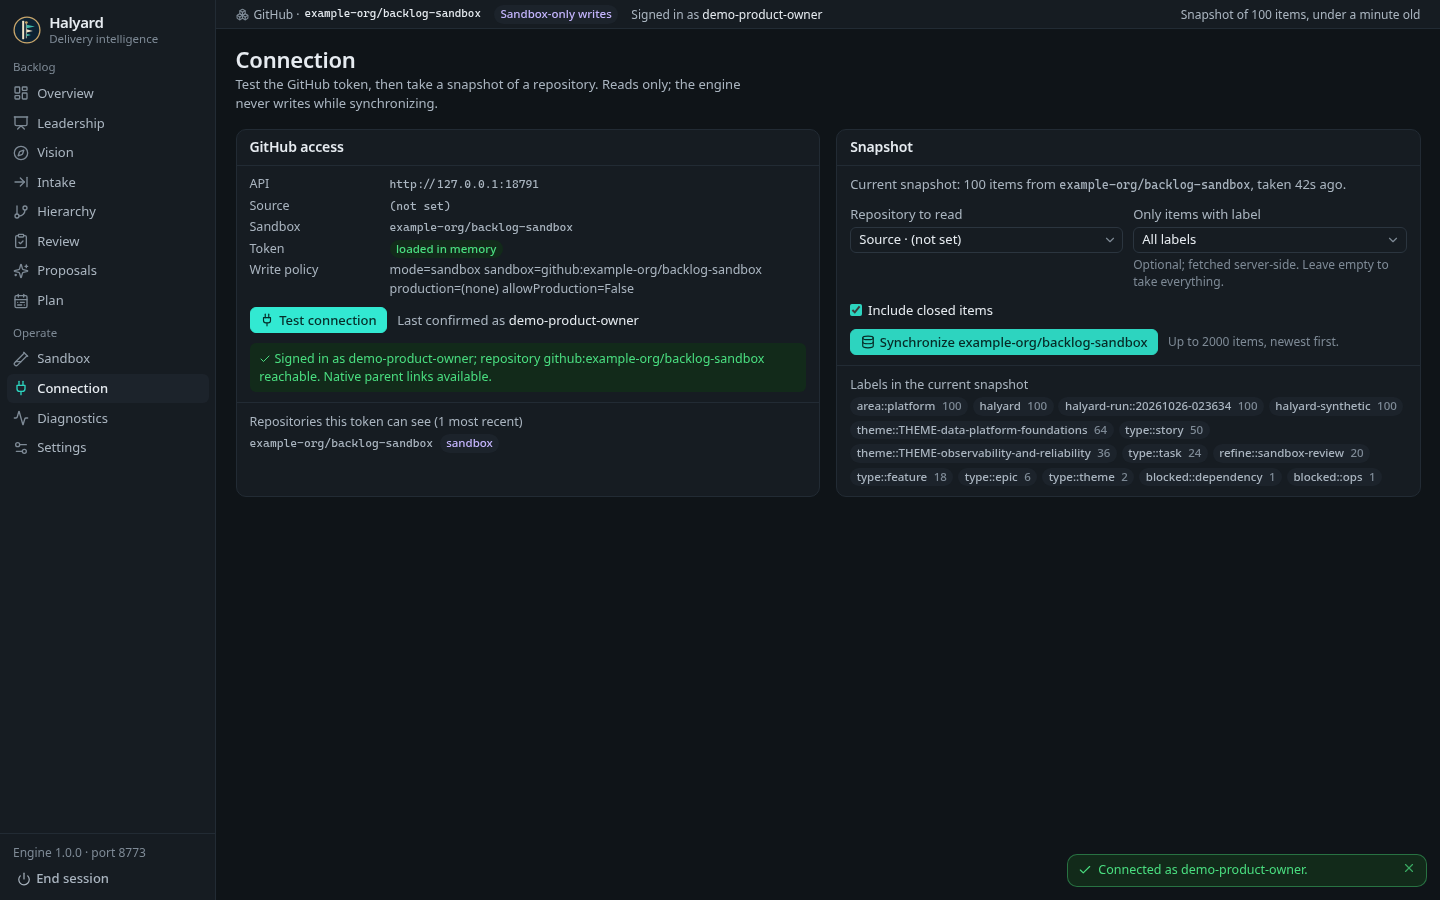
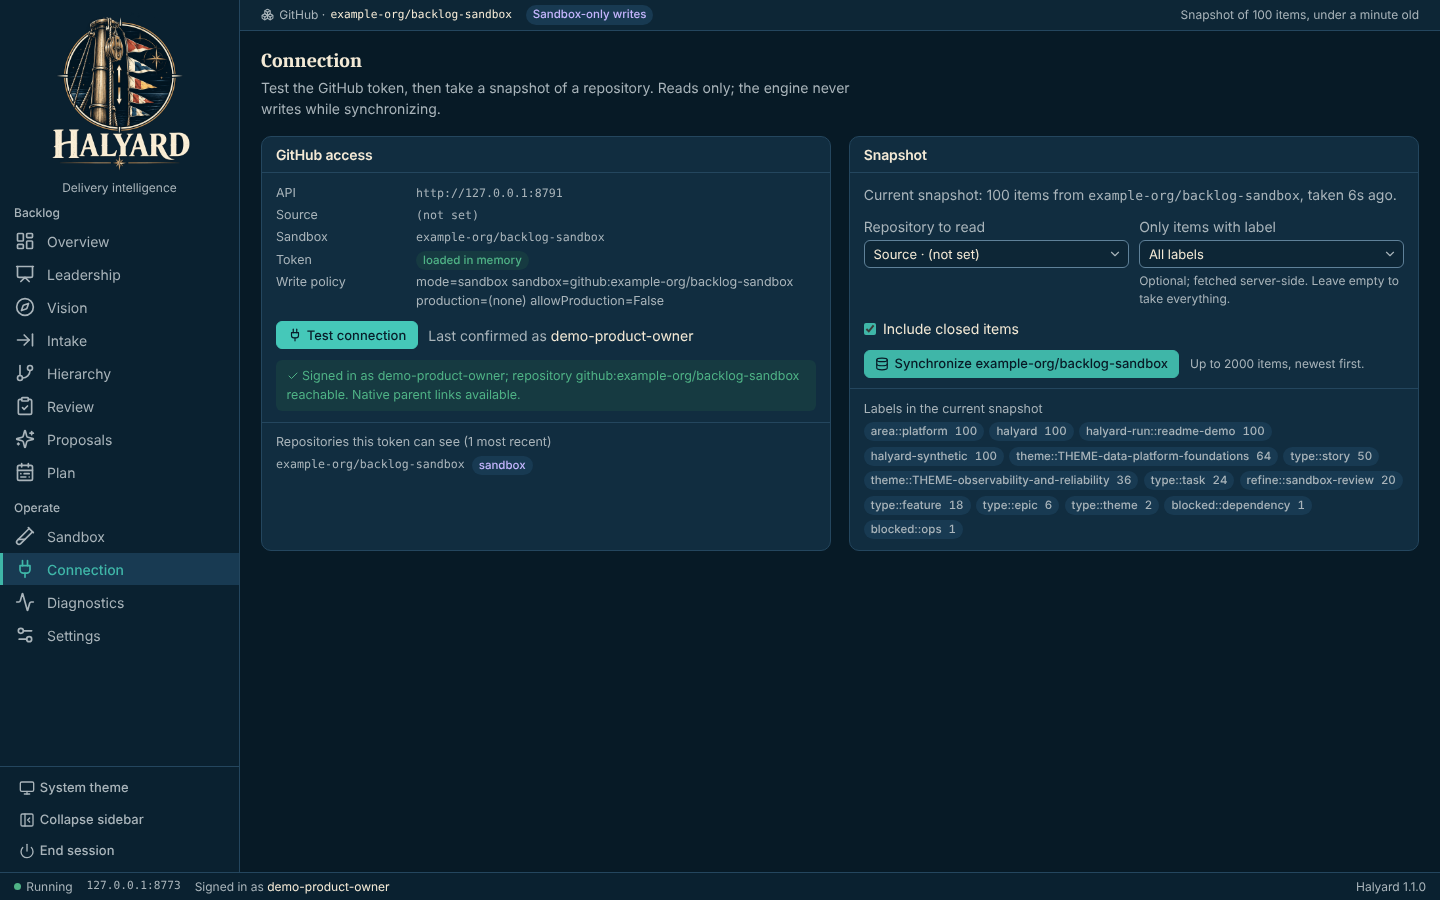
Retake the walkthrough screenshots in the Fleet shell
The seven walkthrough images predated the Fleet Unified UI (old neutral
palette, small mark, no status bar, Engine 1.0.0). Retaken from the
current main against the fake GitHub and a fresh engine, 1440x900 Night
watch, demo data only. The README overview pair already matches the app
and is unchanged.

screenshots.mjs now also drives the walkthrough through the UI (first
launch, settings, seed, connection, overview, review selection, proposal
diff) and lists only the invented example-org repositories.
Capture-Screenshots.ps1 passes the walkthrough folder and starts without a
model key, as step 2 shows.

Claude-Session: https://claude.ai/code/session_011ed4z4RFijKn2Db3KcKVzo

diff --git a/docs/walkthrough/README.md b/docs/walkthrough/README.md
@@ -53,8 +53,8 @@ Open **Review**. Every item is checked against its definition of ready. Select r
 
 Open **Proposals**, open a row to read its before and after diff, and approve it with the check-mark button. Then select **Apply approved to sandbox**. Delete the run from **Sandbox** when you are done.
 
-![Halyard Proposals page with a metadata repair proposal open, showing its diff of added lines and the check-mark approve and X reject buttons.](../assets/walkthrough/07-proposal-diff.png)
+![Halyard Proposals page with a metadata repair proposal open, showing its diff of added lines, approved with the check-mark button, and Apply 1 approved to sandbox ready.](../assets/walkthrough/07-proposal-diff.png)
 
 ## About these images
 
-Images live in [`docs/assets/walkthrough/`](../assets/walkthrough/), named `NN-<screen>.png` after the step they belong to. They are 1440x900 at 100% scale in the Night watch (dark) theme, and show demo data only.
+Images live in [`docs/assets/walkthrough/`](../assets/walkthrough/), named `NN-<screen>.png` after the step they belong to. They are 1440x900 at 100% scale in the Night watch (dark) theme, and show demo data only. `tests/e2e/Capture-Screenshots.ps1` retakes them (with the README pair) through `tests/e2e/screenshots.mjs`, against the fake GitHub and a fresh engine.
